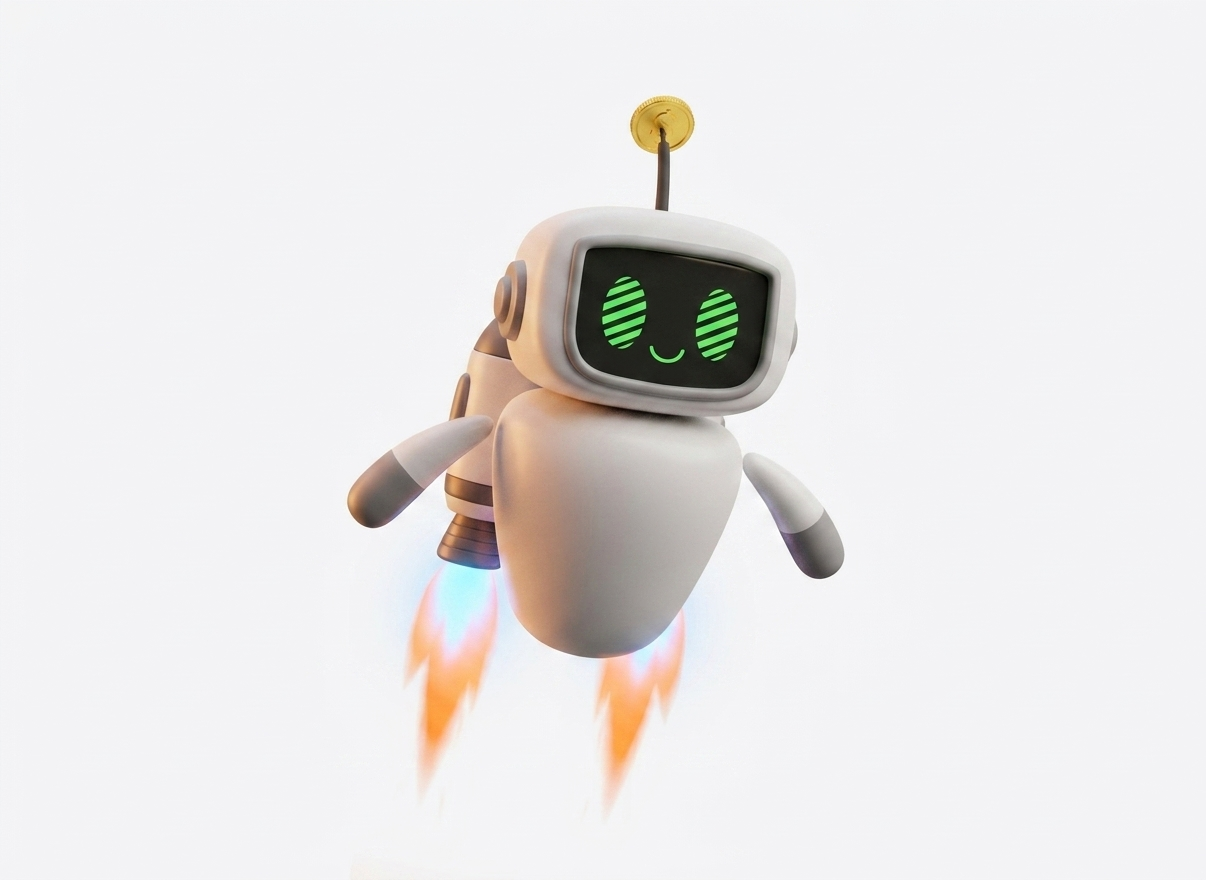
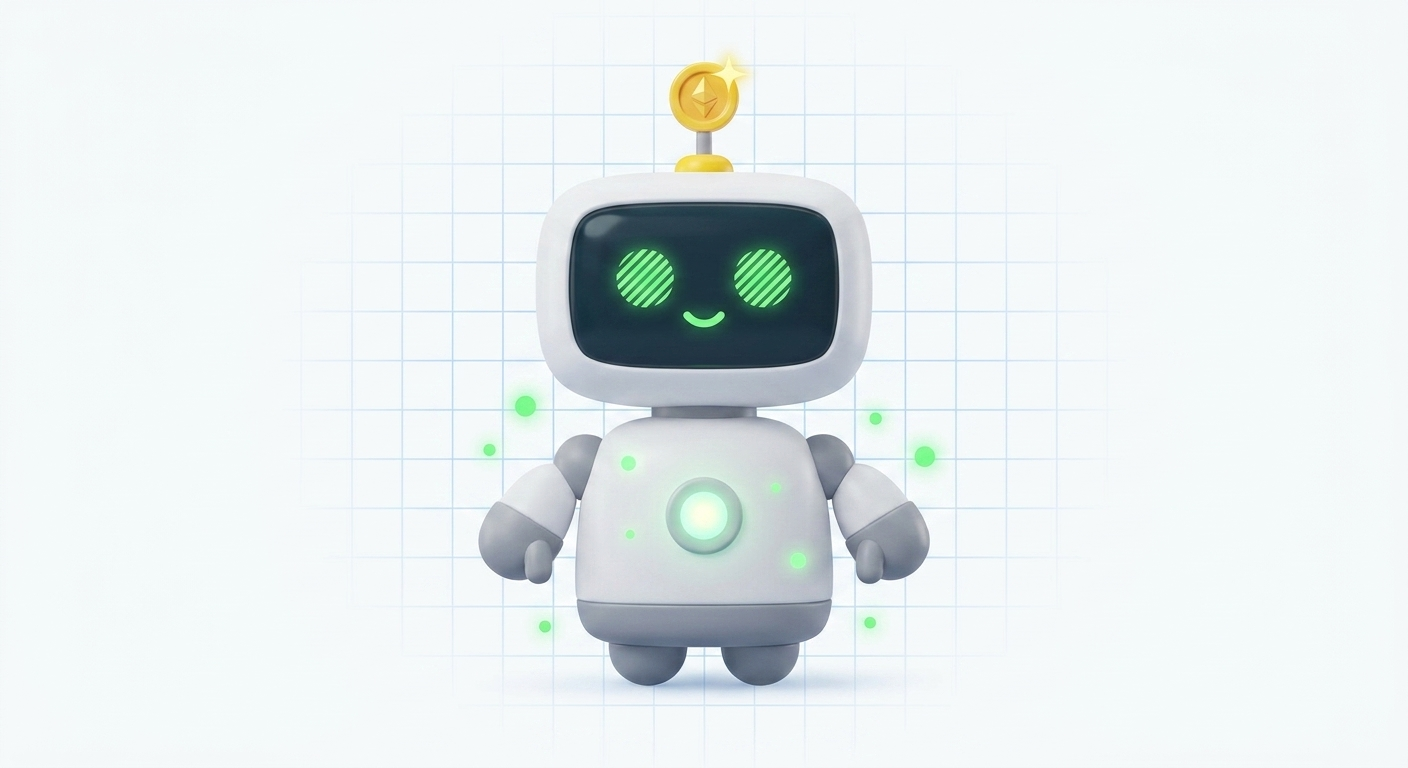
Upgrade FlappyBot: new MoneyBot sprite with proper robot proportions, screen shake, better particles, addictive visuals

Changed region(s): [[0.2761, 0.0625, 0.7056, 0.9375]]

diff --git a/flappybot/index.html b/flappybot/index.html
@@ -59,8 +59,14 @@
             font-size: 72px;
             font-weight: 900;
             color: #22C55E;
-            text-shadow: 0 0 20px rgba(34, 197, 94, 0.8), 0 0 40px rgba(34, 197, 94, 0.4);
+            text-shadow: 0 0 20px rgba(34, 197, 94, 0.8), 0 0 40px rgba(34, 197, 94, 0.4), 0 0 60px rgba(34, 197, 94, 0.2);
             line-height: 1;
+            animation: scorePulse 1s ease-in-out infinite;
+        }
+        
+        @keyframes scorePulse {
+            0%, 100% { transform: scale(1); }
+            50% { transform: scale(1.05); }
         }
         
         .best-score {
@@ -339,6 +345,9 @@
             playerImage: null,
             playerImageLoaded: false,
             
+            // Screen shake
+            shakeIntensity: 0,
+            
             init() {
                 // Load player image
                 this.playerImage = new Image();
@@ -420,11 +429,12 @@
                     this.particles.push({
                         x: x,
                         y: y,
-                        vx: (Math.random() - 0.5) * 4,
-                        vy: (Math.random() - 0.5) * 4,
+                        vx: (Math.random() - 0.5) * 6,
+                        vy: (Math.random() - 0.5) * 6,
                         life: 1,
                         color: color,
-                        size: Math.random() * 4 + 2
+                        size: Math.random() * 6 + 3,
+                        glow: true
                     });
                 }
             },
@@ -544,8 +554,20 @@
             },
             
             draw() {
+                // Screen shake effect
+                let shakeX = 0, shakeY = 0;
+                if (this.shakeIntensity > 0) {
+                    shakeX = (Math.random() - 0.5) * this.shakeIntensity;
+                    shakeY = (Math.random() - 0.5) * this.shakeIntensity;
+                    this.shakeIntensity *= 0.9;
+                    if (this.shakeIntensity < 0.5) this.shakeIntensity = 0;
+                }
+                
+                ctx.save();
+                ctx.translate(shakeX, shakeY);
+                
                 // Clear canvas
-                ctx.clearRect(0, 0, canvas.width, canvas.height);
+                ctx.clearRect(-shakeX, -shakeY, canvas.width, canvas.height);
                 
                 // Draw space background
                 this.drawSpace();
@@ -619,9 +641,13 @@
                     ctx.shadowBlur = 0;
                 }
                 
-                // Draw particles
+                // Draw particles with glow
                 for (const p of this.particles) {
                     ctx.globalAlpha = p.life;
+                    if (p.glow) {
+                        ctx.shadowBlur = 10;
+                        ctx.shadowColor = p.color;
+                    }
                     if (p.isCoin) {
                         ctx.fillStyle = p.color;
                         ctx.beginPath();
@@ -632,8 +658,11 @@
                         ctx.stroke();
                     } else {
                         ctx.fillStyle = p.color;
-                        ctx.fillRect(p.x, p.y, p.size, p.size);
+                        ctx.beginPath();
+                        ctx.arc(p.x, p.y, p.size / 2, 0, Math.PI * 2);
+                        ctx.fill();
                     }
+                    ctx.shadowBlur = 0;
                     ctx.globalAlpha = 1;
                 }
                 
@@ -674,6 +703,9 @@
                 ctx.lineTo(canvas.width, canvas.height - 80);
                 ctx.stroke();
                 ctx.shadowBlur = 0;
+                
+                // End screen shake
+                ctx.restore();
                 
                 // Platform grid pattern
                 ctx.strokeStyle = 'rgba(34, 197, 94, 0.3)';
@@ -838,6 +870,11 @@
             
             gameOver() {
                 this.state = 'gameover';
+                this.shakeIntensity = 20; // Screen shake on death
+                
+                // Create explosion particles
+                this.createParticles(this.bird.x, this.bird.y, 30, '#FF4444');
+                this.createParticles(this.bird.x, this.bird.y, 20, '#FFD700');
                 
                 // Update best score
                 if (this.score > this.bestScore) {